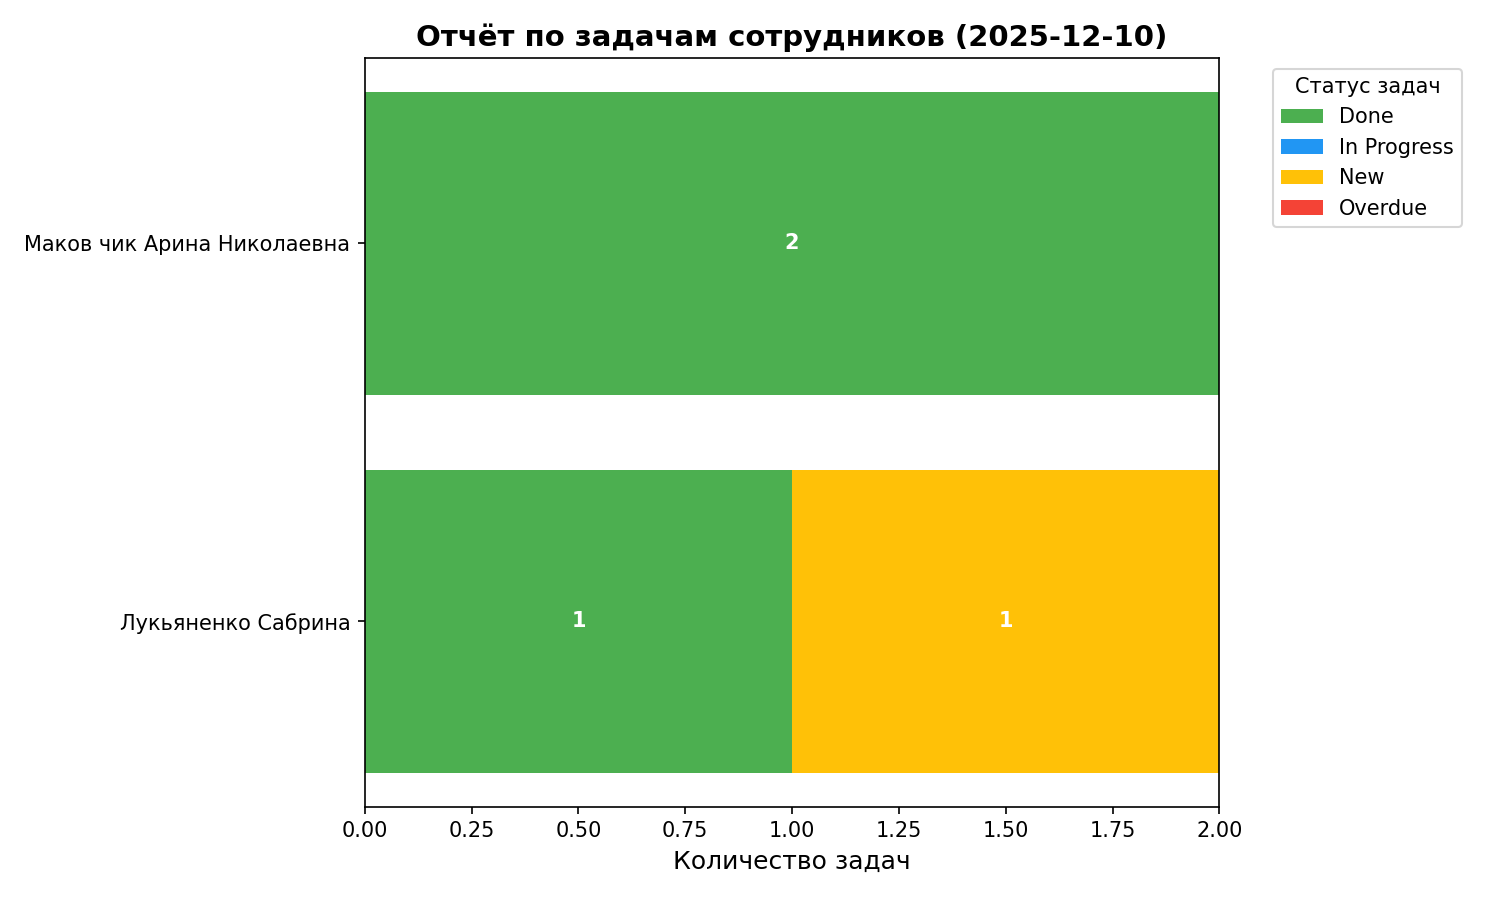
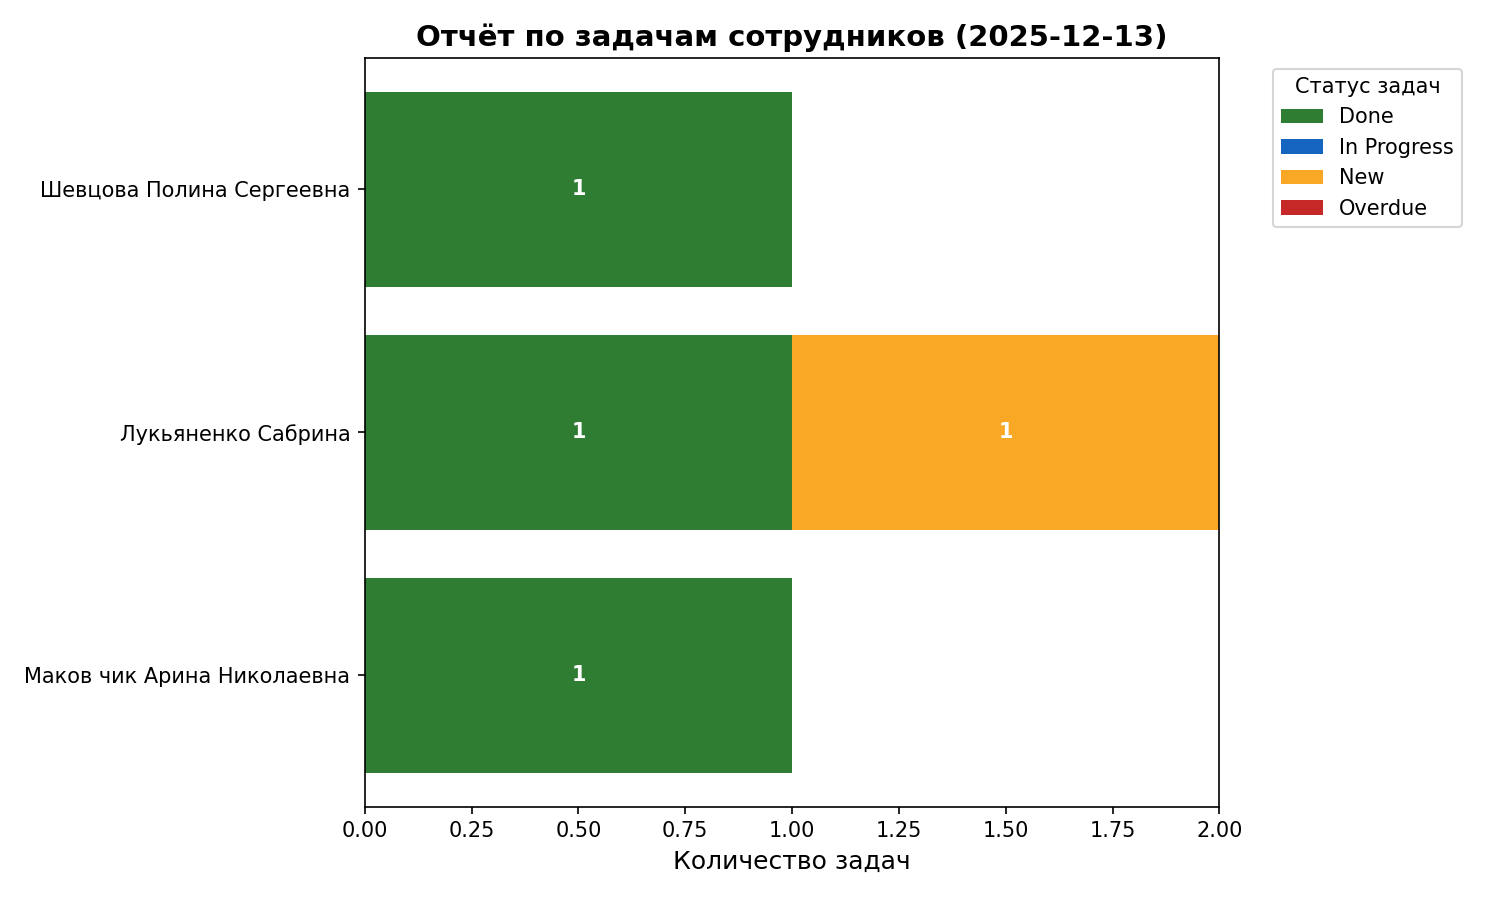
Аналитика и отчеты: Шаг 2 - Диаграмма для менеджеров по прогрессу сделок

diff --git a/handlers/reports/manager_deals_report.py b/handlers/reports/manager_deals_report.py
@@ -1,0 +1,128 @@
+# handlers/reports/manager_deals_report.py
+
+import os
+from datetime import date
+
+import matplotlib.pyplot as plt
+from aiogram import types, Dispatcher
+from sqlalchemy import select
+
+from database.db import async_session_maker
+from database.models import User, Deal, DealStage
+
+
+# 🎯 CALLBACK: Прогресс сделок менеджера
+async def report_manager_deals_cb_handler(query: types.CallbackQuery):
+    print(f"📌 Callback report_manager_deals_cb_handler вызван для Telegram ID: {query.from_user.id}")
+    await query.answer("⏳ Формирую отчёт по сделкам...")
+
+    async with async_session_maker() as session:
+        # --- Получаем менеджера ---
+        result_user = await session.execute(
+            select(User).where(User.telegram_id == str(query.from_user.id))
+        )
+        manager = result_user.scalar_one_or_none()
+
+        if not manager:
+            await query.message.answer("❌ Пользователь не найден.")
+            print("❌ Менеджер не найден")
+            return
+
+        print(f"✅ Менеджер: {manager.full_name}")
+
+        # --- Получаем сделки менеджера ---
+        result_deals = await session.execute(
+            select(Deal).where(Deal.id_manager == manager.id_user)
+        )
+        deals = result_deals.scalars().all()
+
+        print(f"ℹ Найдено сделок: {len(deals)}")
+
+        if not deals:
+            await query.message.answer("ℹ У вас пока нет сделок для отчёта.")
+            return
+
+        # --- Подсчёт по этапам ---
+        stats = {
+            DealStage.new.value: 0,
+            DealStage.in_progress.value: 0,
+            DealStage.on_hold.value: 0,
+            DealStage.completed.value: 0,
+        }
+
+        for deal in deals:
+            stats[deal.stage.value] += 1
+
+        print(f"ℹ Статистика сделок: {stats}")
+
+        # --- Построение диаграммы ---
+        stages = list(stats.keys())
+        counts = list(stats.values())
+
+        colors = {
+            "Новая": "#4C72B0",
+            "В работе": "#DD8452",
+            "Приостановлена": "#8172B2",
+            "Закрыта": "#55A868",
+        }
+
+        fig, ax = plt.subplots(figsize=(8, 6))
+
+        bars = ax.bar(
+            stages,
+            counts,
+            color=[colors[s] for s in stages],
+            width=0.6
+        )
+
+        # Подписи над столбцами
+        for bar in bars:
+            height = bar.get_height()
+            ax.text(
+                bar.get_x() + bar.get_width() / 2,
+                height + 0.05,
+                str(int(height)),
+                ha="center",
+                va="bottom",
+                fontsize=11,
+                fontweight="bold"
+            )
+
+        ax.set_title(
+            f"Прогресс сделок менеджера\n({date.today()})",
+            fontsize=14,
+            fontweight="bold"
+        )
+        ax.set_ylabel("Количество сделок", fontsize=11)
+        ax.set_xlabel("Этап сделки", fontsize=11)
+
+        ax.set_ylim(0, max(counts) + 1)
+        ax.grid(axis="y", linestyle="--", alpha=0.4)
+
+        plt.tight_layout()
+
+        # --- Сохранение ---
+        os.makedirs("reports/images", exist_ok=True)
+        filename = "reports/images/manager_deals_progress.png"
+
+        plt.savefig(filename, dpi=150)
+        plt.close()
+
+        print(f"✅ Диаграмма сохранена: {filename}")
+
+        # --- Отправка ---
+        await query.message.answer_photo(
+            types.InputFile(filename),
+            caption="📈 Прогресс ваших сделок"
+        )
+
+        print(f"🎯 Отчёт по сделкам отправлен менеджеру: {manager.full_name}")
+
+
+# 🔌 Регистрация
+def register_manager_deals_report(dp: Dispatcher):
+    dp.register_callback_query_handler(
+        report_manager_deals_cb_handler,
+        lambda c: c.data == "report_manager_deals"
+    )
+    print("✅ Хендлер report_manager_deals_cb_handler зарегистрирован")

diff --git a/handlers/reports/manager_reports.py b/handlers/reports/manager_reports.py
@@ -66,10 +66,10 @@ async def report_manager_tasks_cb_handler(query: types.CallbackQuery):
         employees = list(data.keys())
         statuses = [TaskStatus.done, TaskStatus.in_progress, TaskStatus.new, TaskStatus.overdue]
         colors = {
-            TaskStatus.done: "#4CAF50",  # зелёный
-            TaskStatus.in_progress: "#2196F3",  # синий
-            TaskStatus.new: "#FFC107",  # жёлтый
-            TaskStatus.overdue: "#F44336",  # красный
+            TaskStatus.done: "#2E7D32",  # тёмно-зелёный — выполнено (уверенность, результат)
+            TaskStatus.in_progress: "#1565C0",  # глубокий синий — в работе (процесс)
+            TaskStatus.new: "#F9A825",  # приглушённый янтарный — новые
+            TaskStatus.overdue: "#C62828",  # тёмно-красный — просроченные (внимание)
         }
 
         # Инициализация нижней границы для стека

diff --git a/main.py b/main.py
@@ -18,7 +18,9 @@ from handlers.manager import manager_employees
 from handlers.reports.reports_menu import register_reports_menu
 from handlers.reports.manager_reports import register_manager_reports
 from handlers.employee import employee_tasks
+from handlers.reports.manager_deals_report import register_manager_deals_report
 
+register_manager_deals_report(dp)
 # регистрация хендлеров
 register_manager_reports(dp)
 register_reports_menu(dp)
